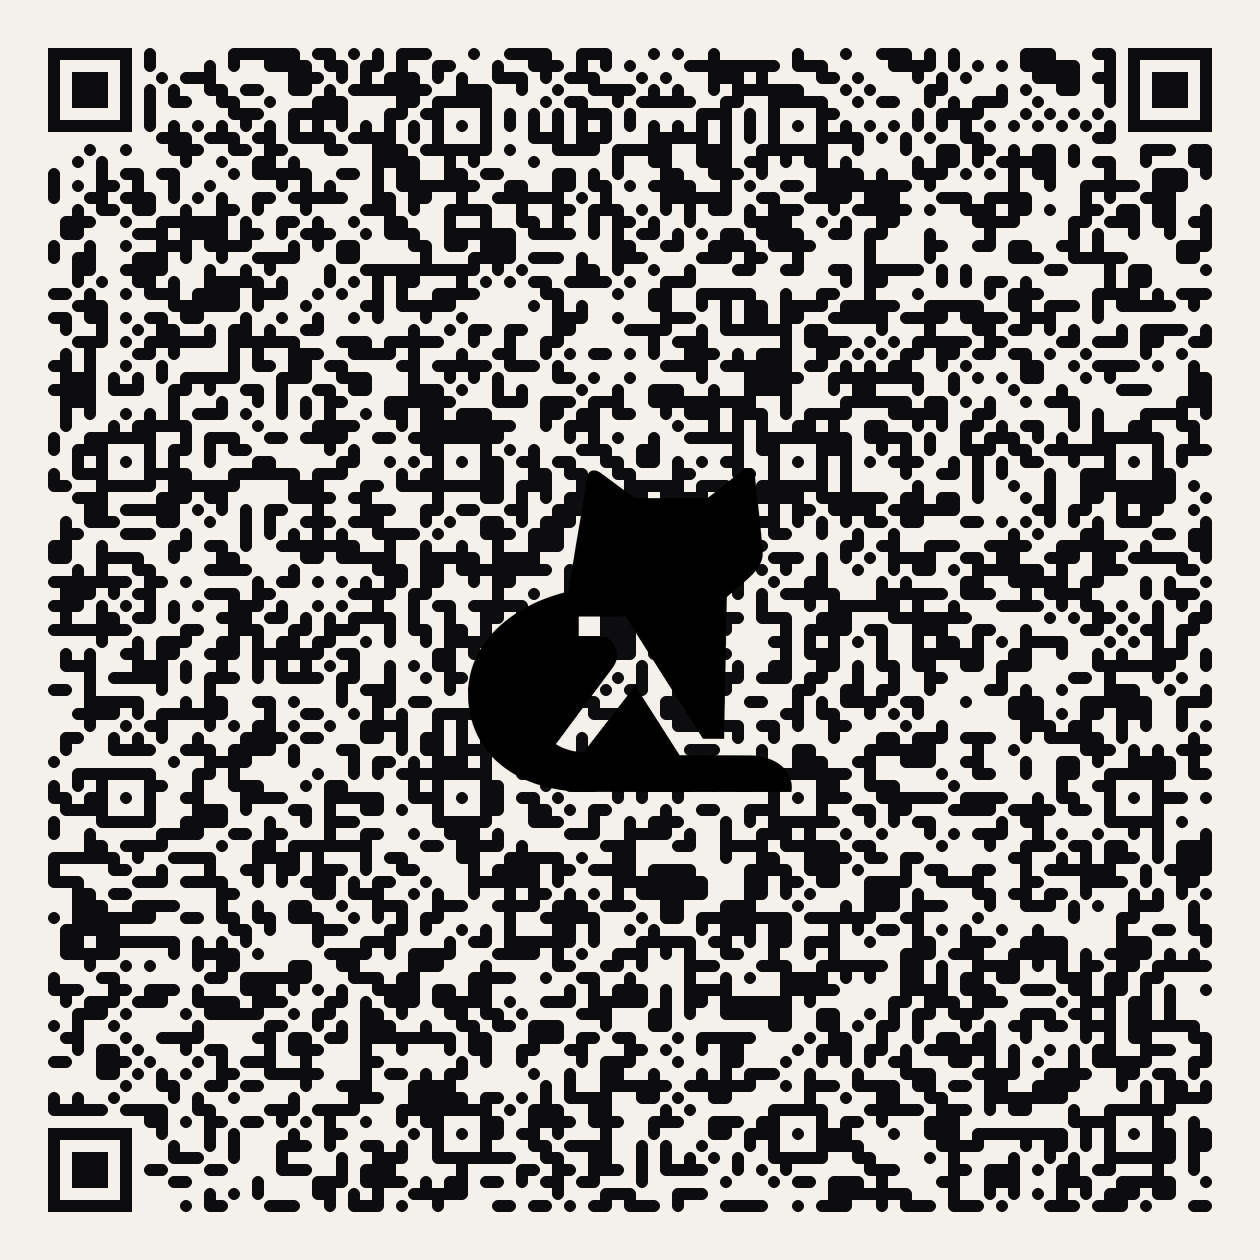
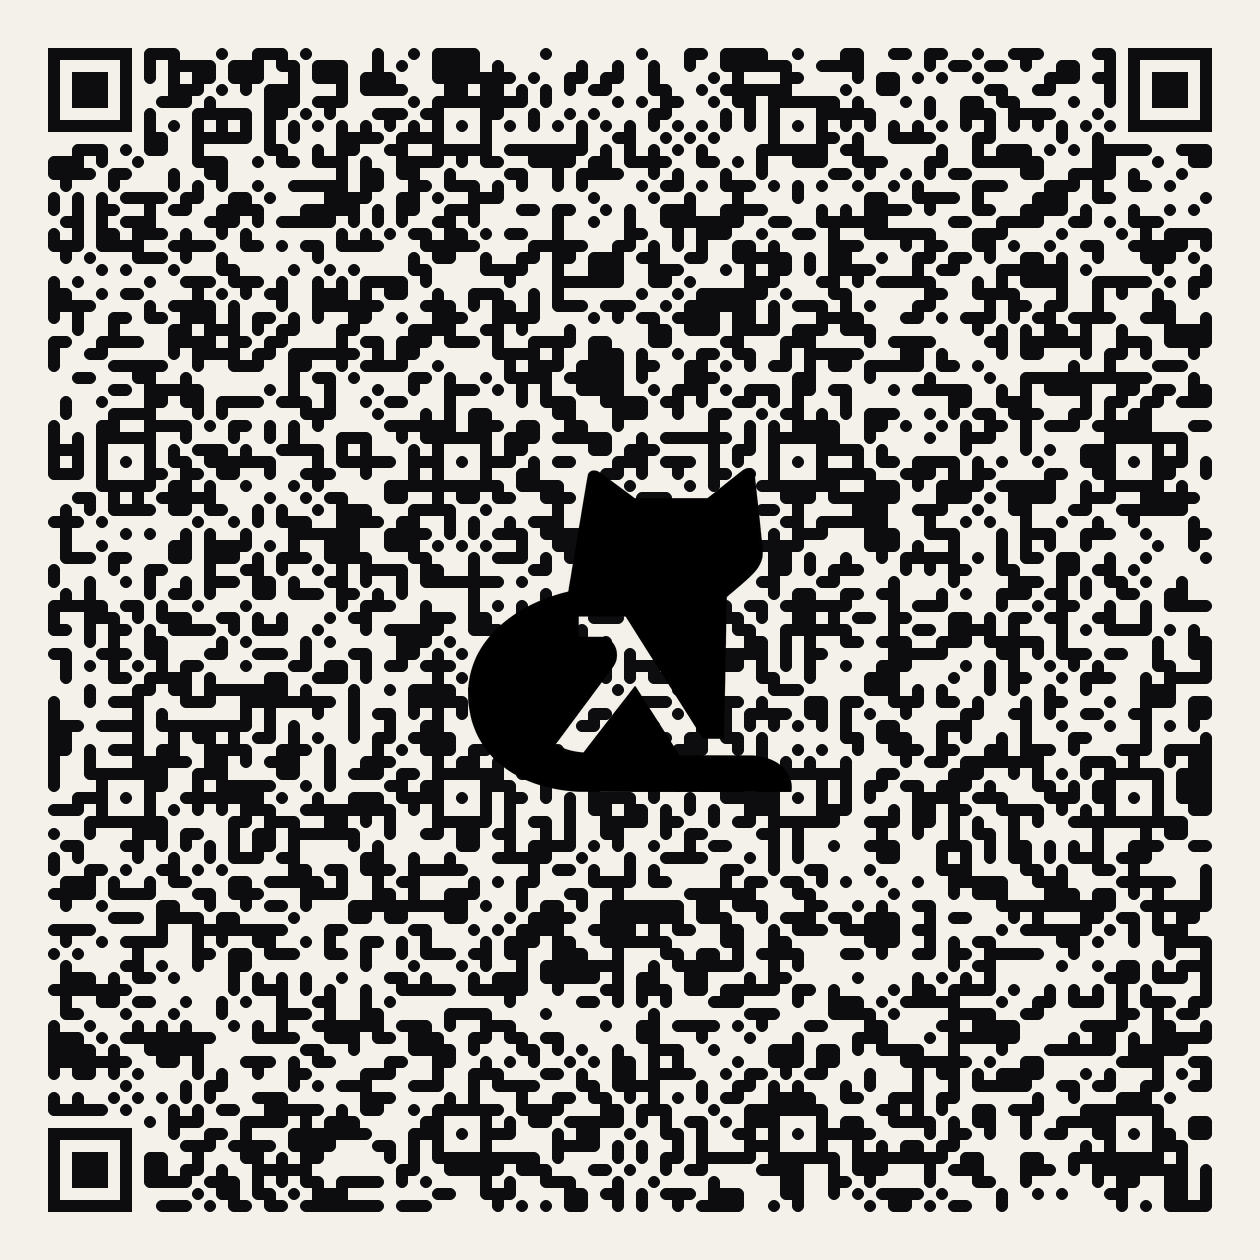
feat(privacy): MailLink obfuscation + alias swap (hello@ replaces pierce@)
Defeats naive email harvesters that regex-grep raw HTML. The address
parts live in data-u / data-d attributes; a small inline script in
BaseLayout assembles the mailto: anchor at runtime. Rendered HTML
never contains the address in plain form.

Also swaps the primary email everywhere to the catch-all alias
hello@piercemoore.com. The alias is the protection layer -- if it
gets harvested anyway, it's rotatable without disturbing the primary
inbox.

Surface changes:
- New MailLink.astro component (server-rendered, hydrated client-side)
- Inline assembly script wired into BaseLayout (no separate JS chunk
  to block; consistent with the Presence beacon's bundled posture)
- Contact.astro + cv.astro + resume-fallback.astro all route email
  through MailLink; non-email links stay as generic <a>
- contact.yaml gains a `kind: email` discriminator on the email link
- humans.txt keeps `hello [at] piercemoore.com` style obfuscation
- security.txt uses plain mailto: per RFC 9116 (the alias is enough)
- JSON-LD email field dropped from index.astro and animation-lab.astro
- FAQ answer rephrased to point readers at the contact section instead
  of naming the address
- 500 error page "report this" action now links to /#contact instead
  of mailto:
- vCard QR regenerated with the alias

Not touched this commit (out of scope, see follow-ups):
- The /resume.pdf itself -- Pierce is regenerating with PII scrubbed
- Phone number on /resume-fallback (still tel:+14695540035)

diff --git a/src/lib/content.ts b/src/lib/content.ts
@@ -62,7 +62,7 @@ export interface OffTheClockContent {
 
 export interface ContactContent {
   primary_email: string;
-  links: { label: string; href: string; value: string }[];
+  links: { label: string; href: string; value: string; kind?: 'email' }[];
   location: string;
   availability: string;
   humans_txt: string;

diff --git a/scripts/gen-contact-qr.py b/scripts/gen-contact-qr.py
@@ -35,7 +35,7 @@ VCARD = "\r\n".join([
     "FN:Pierce Moore",
     "TITLE:Senior DevOps Engineer",
     "ORG:piercemoore.com",
-    "EMAIL;TYPE=INTERNET,PREF:pierce@piercemoore.com",
+    "EMAIL;TYPE=INTERNET,PREF:hello@piercemoore.com",
     "TEL;TYPE=CELL:+1-469-554-0035",
     "URL:https://piercemoore.com",
     "URL;TYPE=linkedin:https://linkedin.com/in/piercemoore",

diff --git a/claude-code-prompt.md b/claude-code-prompt.md
@@ -376,7 +376,7 @@ Full summaries provided in `career-log.yaml`.
 **FAQ** — 12 Q&A pairs provided in `faq.yaml`. Intro: "Questions recruiters and hiring managers actually ask. This is the static version; a live query interface is planned for v2."
 
 **Contact**:
-- Email: `pierce@piercemoore.com`
+- Email: `hello@piercemoore.com`
 - GitHub: `github.com/rex`
 - LinkedIn: `linkedin.com/in/piercemoore`
 - Resume: `/resume.pdf`
@@ -538,7 +538,7 @@ Every page has a unique `<meta name="description">`.
     "addressRegion": "TX",
     "addressCountry": "US"
   },
-  "email": "pierce@piercemoore.com",
+  "email": "hello@piercemoore.com",
   "knowsAbout": [
     "Kubernetes", "Rancher", "Terraform", "Ansible",
     "AWS", "Prometheus", "Grafana", "DevOps",
@@ -601,7 +601,7 @@ thank you. That's on purpose.
 ### security.txt content
 
 ```
-Contact: mailto:pierce@piercemoore.com
+Contact: mailto:hello@piercemoore.com
 Preferred-Languages: en
 Canonical: https://piercemoore.com/.well-known/security.txt
 Expires: [BUILD-DATE + 1 YEAR in ISO 8601 format]

diff --git a/AGENTS.md b/AGENTS.md
@@ -4,7 +4,7 @@
 
 - **What**: Pierce Moore's personal homepage — portfolio site for a Senior DevOps Engineer
 - **Runtime**: Astro 5 (static output), TypeScript strict, Tailwind CSS 3, React (islands only)
-- **Owner**: Pierce Moore (solo project — pierce@piercemoore.com)
+- **Owner**: Pierce Moore (solo project — hello@piercemoore.com)
 - **Non-goals**: No CMS, no client-side analytics, no client-side router
 
 ## 2. Setup
